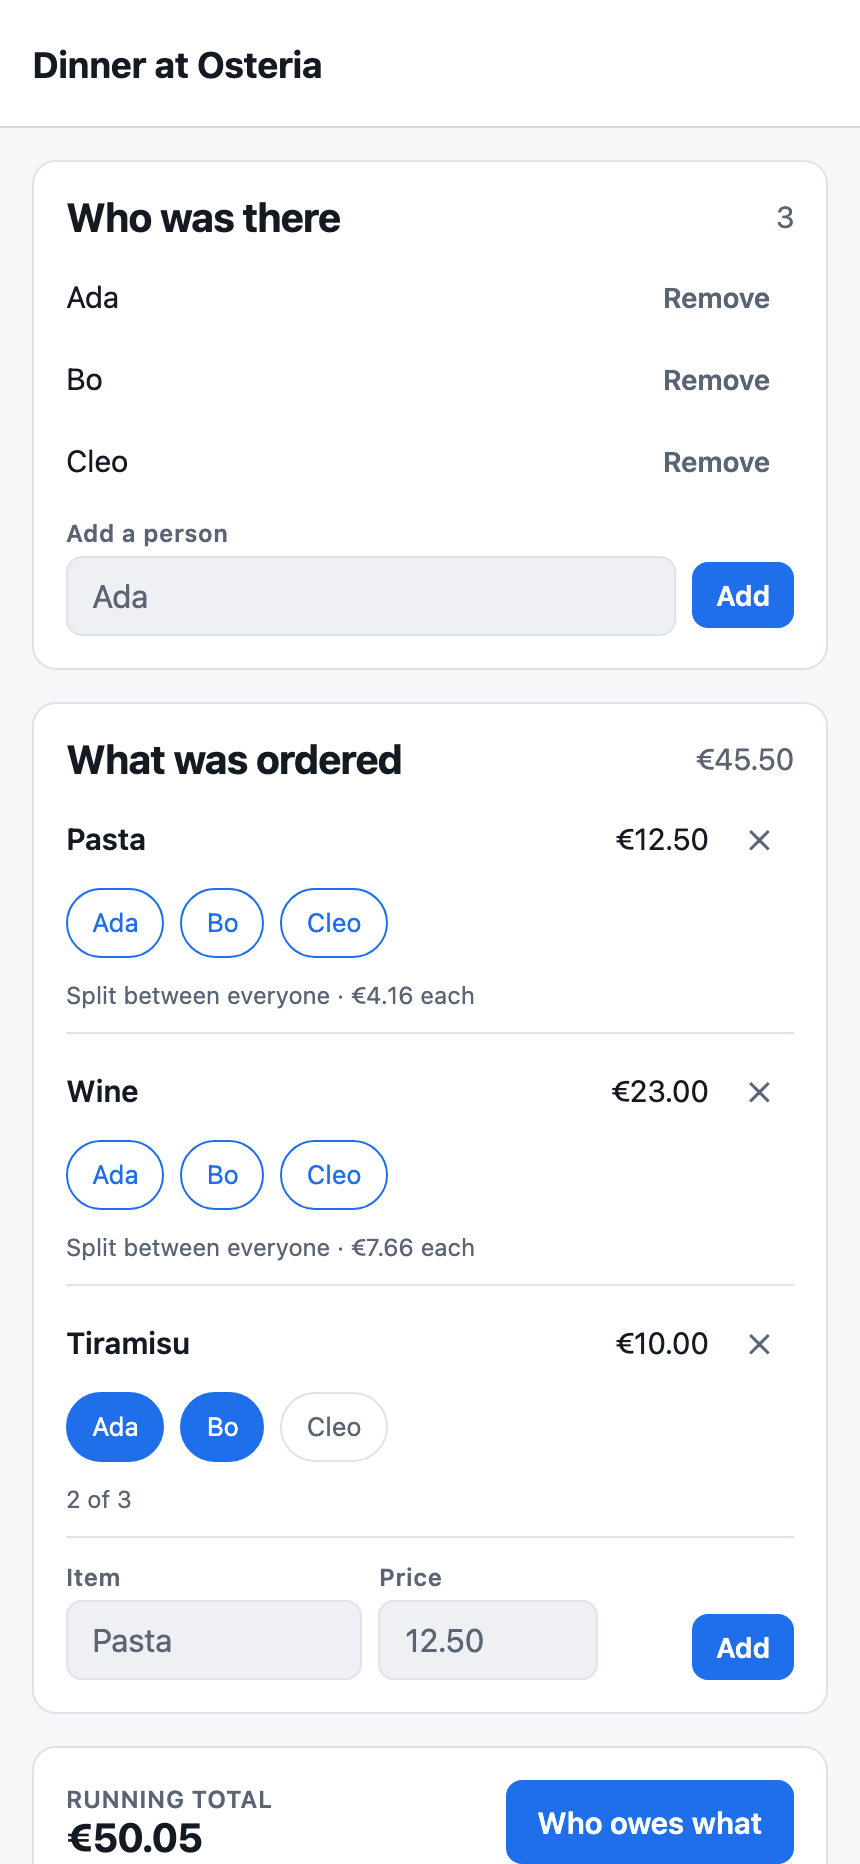
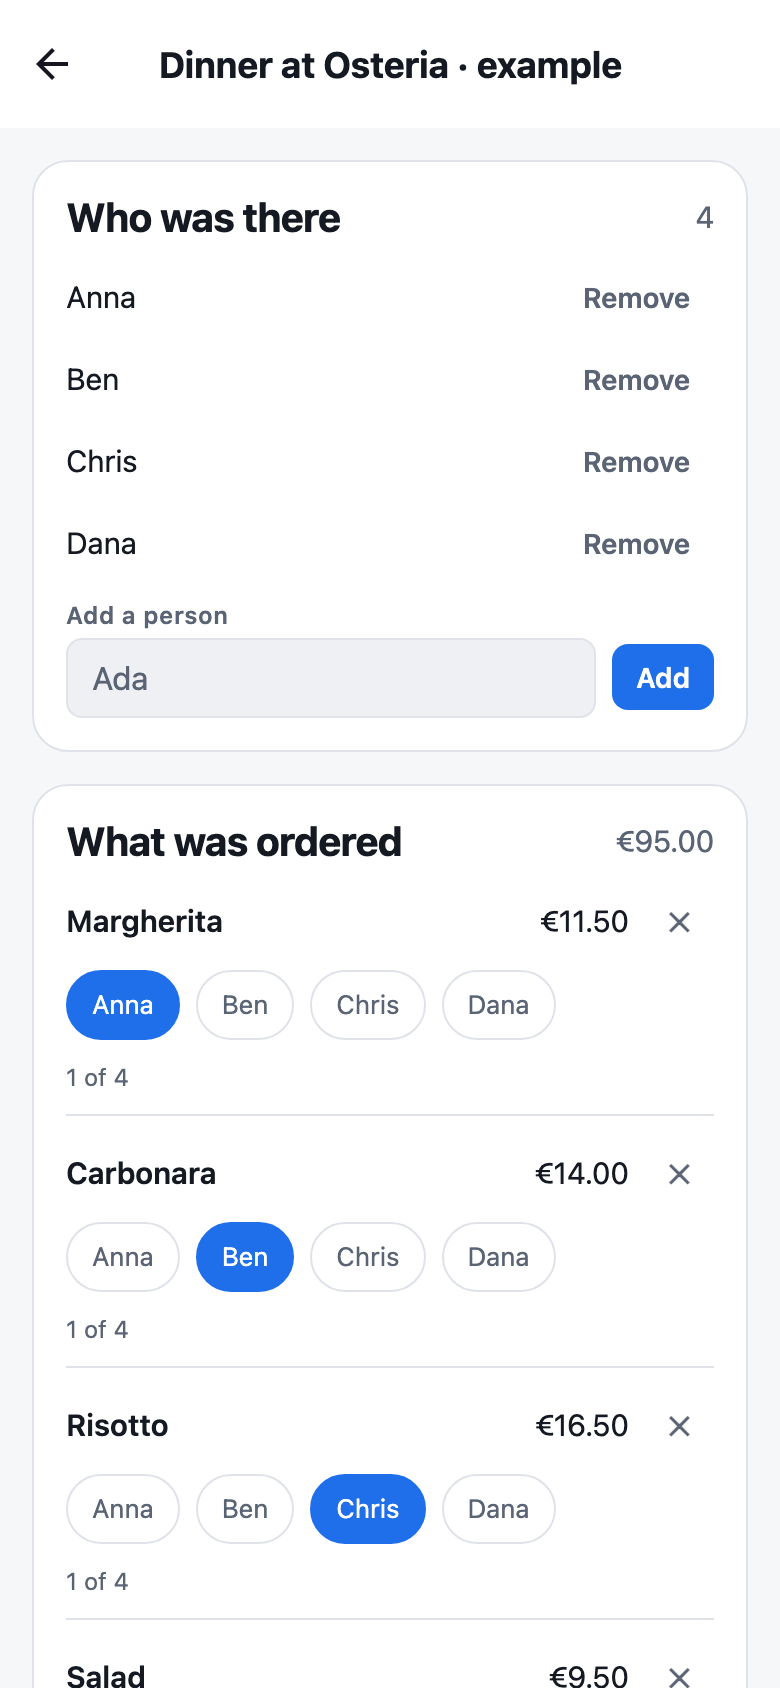
style: make the web build look like an app
A phone-width column on wide screens, a clear first screen with an example bill, larger headings and rounder cards.

diff --git a/src/app/index.tsx b/src/app/index.tsx
@@ -1,7 +1,7 @@
 import { Link, useRouter } from 'expo-router'
 import { useMemo, useState } from 'react'
 import { FlatList, Pressable, View } from 'react-native'
-import { Body, Button, Card, EmptyState, Field, Row, Screen, Skeleton, Title } from '../components/ui'
+import { Body, Button, Card, Display, EmptyState, Field, Row, Screen, Skeleton } from '../components/ui'
 import { formatMoney } from '../lib/money'
 import { settle } from '../lib/settle'
 import { spacing, useTheme } from '../lib/theme'
@@ -13,6 +13,7 @@ export default function BillsScreen() {
   const bills = useBills((state) => state.bills)
   const hydrated = useBills((state) => state.hydrated)
   const createBill = useBills((state) => state.createBill)
+  const createExample = useBills((state) => state.createExample)
   const [title, setTitle] = useState('')
 
   const rows = useMemo(
@@ -25,6 +26,8 @@ export default function BillsScreen() {
     [bills],
   )
 
+  const example = () => router.push(`/bill/${createExample()}`)
+
   const start = () => {
     const id = createBill(title)
     setTitle('')
@@ -34,12 +37,14 @@ export default function BillsScreen() {
   return (
     <Screen>
       <View style={{ padding: spacing.lg, gap: spacing.lg, flex: 1 }}>
-        <Card>
-          <Title>Split a bill</Title>
-          <Body tone="soft">
-            Add who was there, what was ordered, and who shared what. Everything stays on this
-            device — no account, no server.
+        <View style={{ gap: spacing.sm, paddingTop: spacing.sm }}>
+          <Display>Split a bill</Display>
+          <Body tone="soft" style={{ fontSize: 17, lineHeight: 24 }}>
+            Who ate what, who owes what — a restaurant bill split fairly in a minute. No account,
+            nothing leaves this device.
           </Body>
+        </View>
+        <Card>
           <Row>
             <Field
               label="New bill"
@@ -51,6 +56,7 @@ export default function BillsScreen() {
             />
           </Row>
           <Button title="Start a bill" onPress={start} />
+          <Button title="Try an example bill" variant="outline" onPress={example} />
         </Card>
 
         {!hydrated ? (

diff --git a/src/components/ui.tsx b/src/components/ui.tsx
@@ -4,6 +4,7 @@ import {
   Text,
   TextInput,
   View,
+  useWindowDimensions,
   type PressableProps,
   type TextInputProps,
   type TextProps,
@@ -13,9 +14,34 @@ import { radius, spacing, useTheme } from '../lib/theme'
 
 /** The primitives this app is built from. Written for this stack, not imported. */
 
-export function Screen({ style, ...rest }: ViewProps) {
+/** Widest the content gets: on a laptop the app stays a phone-width column. */
+export const COLUMN = 600
+
+export function useWide() {
+  return useWindowDimensions().width >= 768
+}
+
+export function Screen({ style, children, ...rest }: ViewProps) {
   const colors = useTheme()
-  return <View style={[{ flex: 1, backgroundColor: colors.background }, style]} {...rest} />
+  const wide = useWide()
+  return (
+    <View style={{ flex: 1, backgroundColor: colors.background }} {...rest}>
+      <View
+        style={[
+          {
+            flex: 1,
+            width: '100%',
+            maxWidth: COLUMN,
+            alignSelf: 'center',
+            paddingTop: wide ? spacing.lg : 0,
+          },
+          style,
+        ]}
+      >
+        {children}
+      </View>
+    </View>
+  )
 }
 
 export function Card({ style, ...rest }: ViewProps) {
@@ -27,7 +53,7 @@ export function Card({ style, ...rest }: ViewProps) {
           backgroundColor: colors.surface,
           borderColor: colors.border,
           borderWidth: 1,
-          borderRadius: radius.md,
+          borderRadius: radius.lg,
           padding: spacing.lg,
           gap: spacing.md,
         },
@@ -45,6 +71,21 @@ export function Title({ style, tone = 'default', ...rest }: TitleProps) {
   return (
     <Text
       style={[{ fontSize: 20, fontWeight: '700', color: colors.text, letterSpacing: -0.2 }, style]}
+      {...rest}
+    />
+  )
+}
+
+/** The one big line on a screen. */
+export function Display({ style, ...rest }: TextProps) {
+  const colors = useTheme()
+  return (
+    <Text
+      accessibilityRole="header"
+      style={[
+        { fontSize: 30, lineHeight: 36, fontWeight: '800', color: colors.text, letterSpacing: -0.6 },
+        style,
+      ]}
       {...rest}
     />
   )

diff --git a/src/store/bills.ts b/src/store/bills.ts
@@ -45,6 +45,8 @@ export interface BillsState {
   setRoundUp: (billId: string, roundUp: boolean) => void
   /** Starts a new bill with the same people and none of the items. */
   repeatCompany: (billId: string, title: string) => string
+  /** A filled-in dinner for four, to see how splitting works before typing anything. */
+  createExample: () => string
 }
 
 function patchBill(bills: Bill[], billId: string, change: (bill: Bill) => Bill): Bill[] {
@@ -152,6 +154,28 @@ export const useBills = create<BillsState>()(
 
       setRoundUp: (billId, roundUp) =>
         set({ bills: patchBill(get().bills, billId, (bill) => ({ ...bill, roundUp })) }),
+
+      createExample: () => {
+        const names = ['Anna', 'Ben', 'Chris', 'Dana']
+        const billId = get().createBill(
+          'Dinner at Osteria · example',
+          names.map((name) => ({ id: '', name })),
+        )
+        const bill = get().bills.find((b) => b.id === billId)!
+        const [anna, ben, chris, dana] = bill.participants.map((p) => p.id)
+        const dishes: [string, Cents, string[]][] = [
+          ['Margherita', 1150, [anna!]],
+          ['Carbonara', 1400, [ben!]],
+          ['Risotto', 1650, [chris!]],
+          ['Salad', 950, [dana!]],
+          ['Bottle of Chianti', 3200, [anna!, ben!, chris!]],
+          ['Tiramisu to share', 750, [anna!, dana!]],
+          ['Sparkling water', 400, []],
+        ]
+        for (const [label, cents, sharedBy] of dishes) get().addItem(billId, label, cents, sharedBy)
+        get().setTip(billId, { kind: 'percent', value: 10 })
+        return billId
+      },
 
       repeatCompany: (billId, title) => {
         const source = get().bills.find((bill) => bill.id === billId)

diff --git a/src/store/bills.test.ts b/src/store/bills.test.ts
@@ -120,3 +120,18 @@ describe('the whole scenario, at the level the screens drive', () => {
     expect(useBills.getState().bills.map((bill) => bill.title)).toEqual(['Second', 'First'])
   })
 })
+
+describe('the example bill', () => {
+  it('seats four people and adds up to the total, to the cent', () => {
+    const billId = useBills.getState().createExample()
+    const bill = useBills.getState().bills.find((item) => item.id === billId)!
+    expect(bill.participants.map((p) => p.name)).toEqual(['Anna', 'Ben', 'Chris', 'Dana'])
+    expect(new Set(bill.participants.map((p) => p.id)).size).toBe(4)
+    const settlement = settle(bill)
+    // Only the water is split between everyone; every other dish has its people.
+    expect(settlement.unassigned.map((item) => item.label)).toEqual(['Sparkling water'])
+    expect(settlement.subtotal).toBe(9500)
+    // Shares always add up to the total, to the cent.
+    expect(settlement.shares.reduce((sum, share) => sum + share.total, 0)).toBe(settlement.total)
+  })
+})

diff --git a/src/app/_layout.tsx b/src/app/_layout.tsx
@@ -16,6 +16,9 @@ export default function RootLayout() {
           headerStyle: { backgroundColor: colors.surface },
           headerTintColor: colors.text,
           headerTitleStyle: { fontWeight: '700' },
+          // Content is a centred column on wide screens; the title sits over it.
+          headerTitleAlign: 'center',
+          headerShadowVisible: false,
           contentStyle: { backgroundColor: colors.background },
         }}
       >

diff --git a/README.md b/README.md
@@ -8,8 +8,12 @@ screens as the iOS app, running in the browser.
 
 <p>
   <img src="docs/bill.png" alt="The bill screen: people, items and who shares each one" width="290" />
-  <img src="docs/summary.png" alt="The summary: per-person totals, tip and the shareable text" width="290" />
+  <img src="docs/summary.png" alt="The summary in the dark theme: per-person totals and tip" width="290" />
 </p>
+
+On a laptop it stays an app — a phone-width column in the middle, not a form stretched edge to edge. The first screen has **Try an example bill**: a dinner for four, already split, to see how it works before typing anything.
+
+<img src="docs/desktop.png" alt="The summary on a 1280 px screen: the same column, centred" width="600" />
 
 One codebase, two targets: React Native on iOS and the same screens on the web.
 
